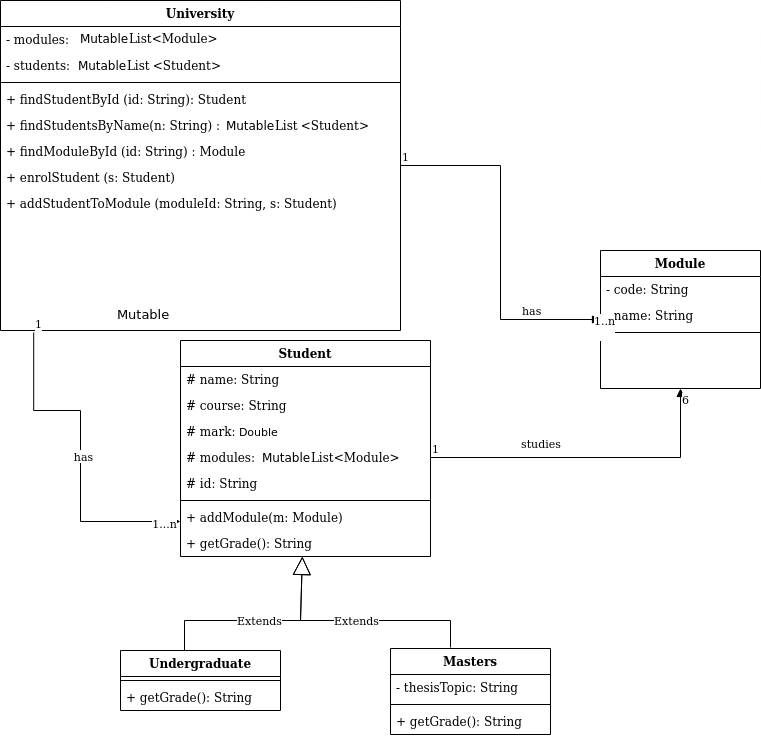
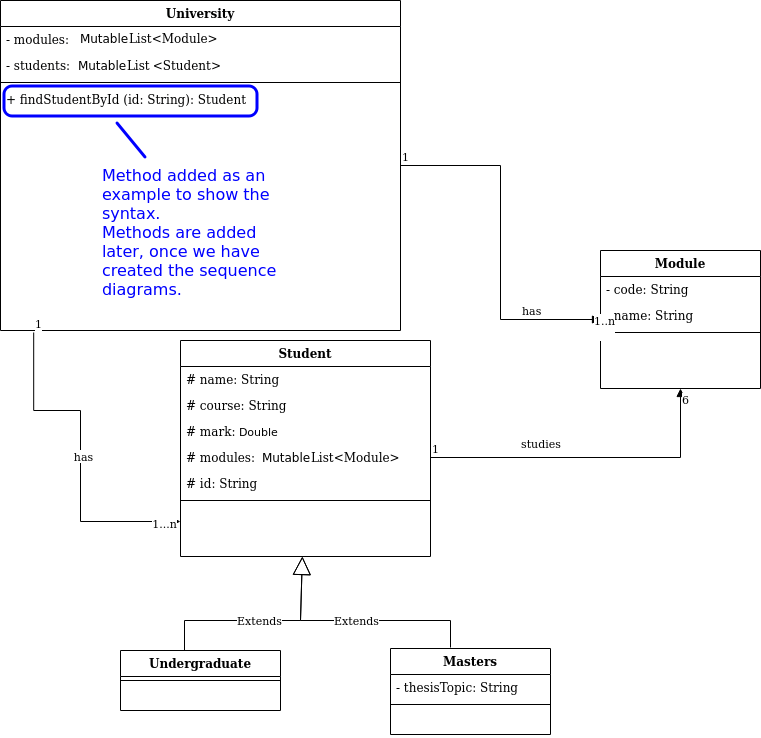
initial updates for OODD

diff --git a/COM534/topic4.html b/COM534/topic4.html
@@ -62,9 +62,10 @@ tools which can aid us in that process. It can be used in various different anal
 
 <p>Analysis and design starts with a <em>problem statement</em>.  This is a written description of what is required of the application, and will typically be produced by gathering requirements from the target users. Here is an example:
 <pre>There is a requirement for a software application to allow a university 
-to manage its undergraduate and masters students and modules. Each student and 
-module is identified by a unique ID. University admins need to be able to look 
-up students and modules by ID, look up students by name, and enrol students on 
+to manage its undergraduate and masters students and modules. Each student 
+is identified by a unique ID and each module is identified by a unique code. 
+University admins need to be able to look up students by ID, look up modules
+by code, look up students by name, and enrol students on 
 modules. The system should record all modules a student is enrolled on, and the 
 thesis topic for a masters' student.
 
@@ -163,7 +164,9 @@ their inter-relationships, and the attributes and methods of each class. The cla
 <ul>
 <li>Classes and their interrelationships come from the domain model</li>
 <li>When first analysing the problem statement, you can add a first guess at likely attributes to the domain model to produce an initial class diagram</li>
+<!--
 <li>The initial class diagram can also contain an initial guess at the methods. However, it will be updated later to add further methods, once we have gone through the full analysis and design process - which will reveal additional methods.</li>
+-->
 </ul>
 </div>
 
@@ -194,11 +197,11 @@ class and subclasses</li>
 <li>There are also special syntaxes for aggregation and composition</li>
 </ul>
 </p>
-<p>Here is an example, based on the domain model above. Note that for now, we have only added attributes. Methods are typically added <em>later</em> in the analysis and design process, as we saw above.
+<p>Here is an example, based on the domain model above. Note that for now, we have only added attributes. Methods are typically added <em>later</em> in the analysis and design process, as we saw above. I have just added one method to show the syntax.
 <br />
 <img src="../images/COM534classdiagram1.png" alt="University records system class diagram"/></p>
 <br />
-Note that the attributes we have added can be derived from the problem statement, above. Also, where a class contains one or more of another (e.g. a university contains one or more students or modules) this would translate to an attribute. So a one-to-many relationship (1..n) would require a <em>list</em> and a one-to-one relationship (1..1) would require a simple attribute. For example, the <code>University</code> contains one or many <code>Student</code>s so the <code>University</code> needs to contain a <code>List</code> of <code>Student</code> objects.</p>
+Note that many the attributes we have added can be derived from the problem statement, above. Also, where a class contains one or more of another (e.g. a university contains one or more students or modules) this would translate to an attribute representing a <em>collection</em> of data, such as a list. So a one-to-many relationship (1..n) would require a <em>list</em> of the entity at the "many" end of the relationship, and a one-to-one relationship (1..1) would require a simple attribute. For example, the <code>University</code> contains one or more <code>Student</code>s so the <code>University</code> would need to contain a <code>MutableList</code> of <code>Student</code> objects. Specifically it would be a <code>MutableList</code> because we need to be able to add new students to it when enrolling students.</p>
 </div>
 
 <div>
@@ -211,7 +214,6 @@ Note that the attributes we have added can be derived from the problem statement
 
 <div>
 <h2>Use cases</h2>
-<p><em>We may return to this in a later week, depending on how you are progressing.</em></p>
 <p>The other step we need to take as an initial analysis and design step is <em>use-case analysis</em>.  This takes a different approach to the problem compared to the domain model by considering the system from a <em>user</em> point of view; i.e. <em>thinking about how the user will interact with the system</em>.  For example, we consider questions such as:
 	<ul>
 	<li>Who are the users?</li>
@@ -310,24 +312,26 @@ we can distinguish between <em>generalised</em> actors and more <em>specialised<
 <h2>Exercise</h2>
 <p>Look at this problem statement:
 <pre>
-There is a requirement for a piece of software to manage events 
-(featuring live bands) and bookings for a live music venue. 
+There is a requirement for a piece of software to manage events (music, comedy,
+etc) and bookings for a venue. 
 
-Customers should be able to view all events, search for and book events, 
-as well as cancel bookings, on the web. 
+Customers should be able to view all events, search for events by name, and 
+book events. When an event is booked, a booking will be created for the user, 
+including the event details and a unique booking ID. A customer should also be 
+able to view and cancel their own bookings.
 
-Customers can also call the venue to book over the phone: venue staff should 
-also be able to perform these tasks on behalf of customers when they book 
-over the phone.  
+Venue staff should also be able to perform these tasks on behalf of customers 
+when they call the venue. 
 
-Venue staff should be able to add and cancel events. 
+Venue staff should be able to add new events, and cancel events. Cancelling 
+events should cancel all bookings associated with that event, and should also 
+inform all customers with bookings for that event of the cancellation.
 </pre>
 <ol>
-<li>Create a domain model for this problem statement. For now, to keep things simple, you do not need to include classes relating to implementing a login system.</li>
-<li>Add some likely attributes, and an initial guess at methods, to the domain model to produce a class diagram.</li>
-<li><em>Before moving onto use cases, ensure you have finished Questions 1-7 of Week 2, and questions 1 and 2 of week 3. You need all these for the first assignment (the group project).</em></li>
-<li>List some possible use cases for this scenario. You do not have to draw a diagram just yet - just list some likely use cases.</li>
-<li>If you have time, draw up a use-case diagram showing these use cases. (If you do not have enough time, please attend the drop-in session; if you still do not have enough time, there will be an opportunity to create a use-case diagram next week).</li>
+<li>Create a domain model for this problem statement. <strong>The domain model only need handle the functionality above: do not try to over-complicate things by assuming other functionality may be needed. Also, for now, to keep things simple, you do not need to include classes relating to implementing a login system.</strong></li>
+<li>By examining the domain model and the relationships between the classes in the domain model, add some likely attributes to it to produce an initial class diagram. Methods are not necessary as they are added later in the analysis and design process.</li>
+<li>List a series of use cases for this scenario (no diagram needed just yet - just a list). We will do this as an interactive group exercise in class. Unlike the domain model you <strong>should</strong> include logging in as a potential use case.</li>
+<li>Draw up a use-case diagram showing the agreed set of use cases from the interactive group exercise.</li>
 </ol>
 </main>
 </body>

diff --git a/COM534/topic5.html b/COM534/topic5.html
@@ -335,24 +335,14 @@ edit the student details</td>
 
 <h2>Exercise</h2>
 <ol>
-<li>Draw up a use case diagram for these use cases from the live music venue scenario from last week: 
-	<ul>
-	<li>Search for events by name (all users)</li>
-	<li>Book an event (all users)</li>
-	<li>Add an event (admin only)</li>
-	<li>Modify an event (admin only)</li>
-	<li>Delete an event (admin only)</li>
-	<li>Cancel a booking (all users)</li>
-	</ul>
-Also add a <strong>login</strong> use case.
-Ideally use extends and precedes as appropriate.
-</li>
 <li>Prepare an analysis-level use-case text for "add an event"</li>
 <li>Prepare an analysis-level use-case text for "book an event". Assume the venue has a maximum capacity.</li>
-<li>Prepare a design-level use-case text for "add an event". Assume the simplified domain model below.</li>
-<li>Prepare a design-level use-case text for "book an event". Assume the simplified domain model below.</li> 
+<li>Take a copy of your analysis-level use case text for "add an event" and convert it into a design-level use-case text. Assume the simplified domain model below.</li>
+<li>Similarly, take a copy of your analysis-level use case text for "book an event" and convert it into a design-level use-case text. Again, assume the simplified domain model below.</li> 
 </ol>
+<!-- will probably use revised diagram
 <p><img src="../images/week4domainmodel.drawio.png" alt="Basic venue domain model" /></p>
+-->
 </main>
 </body>
 </html>
